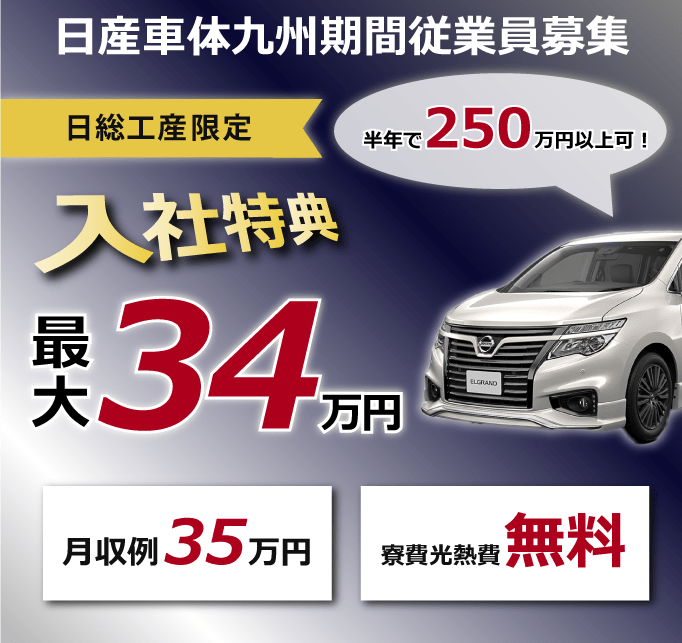
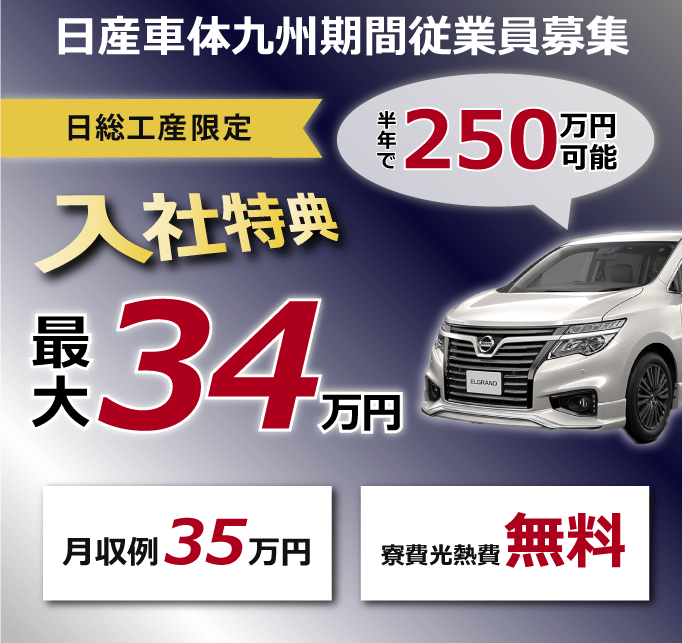
fix details

Changed region(s): [[0.4619, 0.1244, 0.9853, 0.3733], [0.8006, 0.0933, 0.8314, 0.1244]]

diff --git a/index.html b/index.html
@@ -12,7 +12,9 @@
 
 <body>
     <header>
-        <img src="img/logo-nisso.png" alt="日総工産ロゴ" class="logo">
+        <a href="#">
+            <img src="img/logo-nisso.png" alt="日総工産ロゴ" class="logo">
+        </a>
     </header>
     <section id="top_image">
         <img src="img/top_sp.png" alt="日産車体九州期間従業員募集トップ画像">
@@ -33,7 +35,7 @@
         <div class="apply-box">
             <dl>
                 <dt>給与</dt>
-                <dd>37万円</dd>
+                <dd>35万円</dd>
                 <dt>勤務地</dt>
                 <dd>日産車体九州株式会社<br>
                     所在地：福岡県京都郡苅田町新浜町1番地3</dd>
@@ -55,13 +57,16 @@
                 <dd>※高校生不可</dd>
                 <dd>※未成年の方はご家族の同意が必要です。</dd>
                 <dt>待遇</dt>
-                <dd class="text_em">月収目安は<span class="text_alert">37.7万円！</span>高収入が期待出来ます！</dd>
-                <dd class="text_em">入社特典：<span class="text_alert">総額20万円</span>支給キャンペーン実施中！！日総工産だけのお得な特典です。お見逃しなく！</dd>
-                <dd class="text_em">1年間で特典総額<span class="text_alert">56万円!</span><br>
-                    ※入社特典20万円（1ヶ月在籍確認後5万円・3ヶ月在籍確認後15万円）+満期慰労金36万円（3ヶ月毎に9万円支給）さらに、諸手当5.1万円を毎月支給!（※各特典・手当に規定あり）<br>
+                <dd class="text_em">月収目安は<span class="text_alert">35.3万円！</span>高収入が期待出来ます！</dd>
+                <dd class="text_em">入社特典：<span class="text_alert">総額34万円</span>支給キャンペーン実施中！！日総工産だけのお得な特典です。お見逃しなく！</dd>
+                <dd class="text_em">半年で収入<span class="text_alert">250万円可能!</span><br>
+                    ※入社特典34万円（選考会参加で3万円・1ヶ月在籍確認後16万円・3ヶ月在籍確認後15万円）
+                    +満期慰労金16万円（初回1ヶ月後に4万円、その後は3ヶ月ごとに12万円）、
+                    さらに皆勤手当（2ヶ月おきに6万円）・交替手当（毎月1万6000円）の支給もあり！<br>
                     ※会社規定により支給</dd>
+                <dd class="text_em">備品付きの寮はなんと<span class="text_alert">無料！</span>全国からのご応募大歓迎です！</dd>
                 <dd class="text_em">赴任旅費、当社規定により支給</dd>
-                <dd>備品付きの寮を完備しておりますので、全国からのご応募大歓迎です！</dd>
+                
                 <dd>マイカー・バイク通勤可</dd>
                 <dd>通勤交通費全支給（規定あり）</dd>
                 <dd>寮での食事は1食300円から（朝・夕あり）！</dd>

diff --git a/css/style.scss b/css/style.scss
@@ -115,14 +115,14 @@ img {
     width: 100%;
   }
   & dt {
-    margin-bottom: 1rem;
+    margin-bottom: 2rem;
   }
   & p {
     display: inline;
   }
   & .faq-answer {
     width: 90%;
-    margin: 0 auto 1rem;
+    margin: 0 auto 2rem;
     &.hidden {
       display: none;
     }

diff --git a/css/style.css b/css/style.css
@@ -132,7 +132,7 @@ img {
 }
 
 .faq-box dt {
-  margin-bottom: 1rem;
+  margin-bottom: 2rem;
 }
 
 .faq-box p {
@@ -141,7 +141,7 @@ img {
 
 .faq-box .faq-answer {
   width: 90%;
-  margin: 0 auto 1rem;
+  margin: 0 auto 2rem;
 }
 
 .faq-box .faq-answer.hidden {
